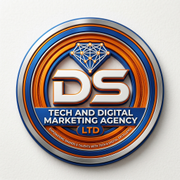
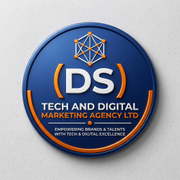
chore: update application assets
Update favicon and PWA icons to improve branding consistency.

diff --git a/generate_pwa_icons.js b/generate_pwa_icons.js
@@ -4,7 +4,7 @@ import path from 'path';
 
 const publicDir = path.resolve(process.cwd(), 'public');
 const svgPath = path.join(publicDir, 'icon.svg');
-const logoJpgPath = path.resolve(process.cwd(), 'src/assets/images/logo_og_image_1788790588032.jpg');
+const logoJpgPath = path.resolve(process.cwd(), 'src/assets/images/exact_ds_tech_logo_1788790934101.jpg');
 
 async function generateIcons() {
   console.log('Generating official DS TECH PWA high-res PNG icons...');
